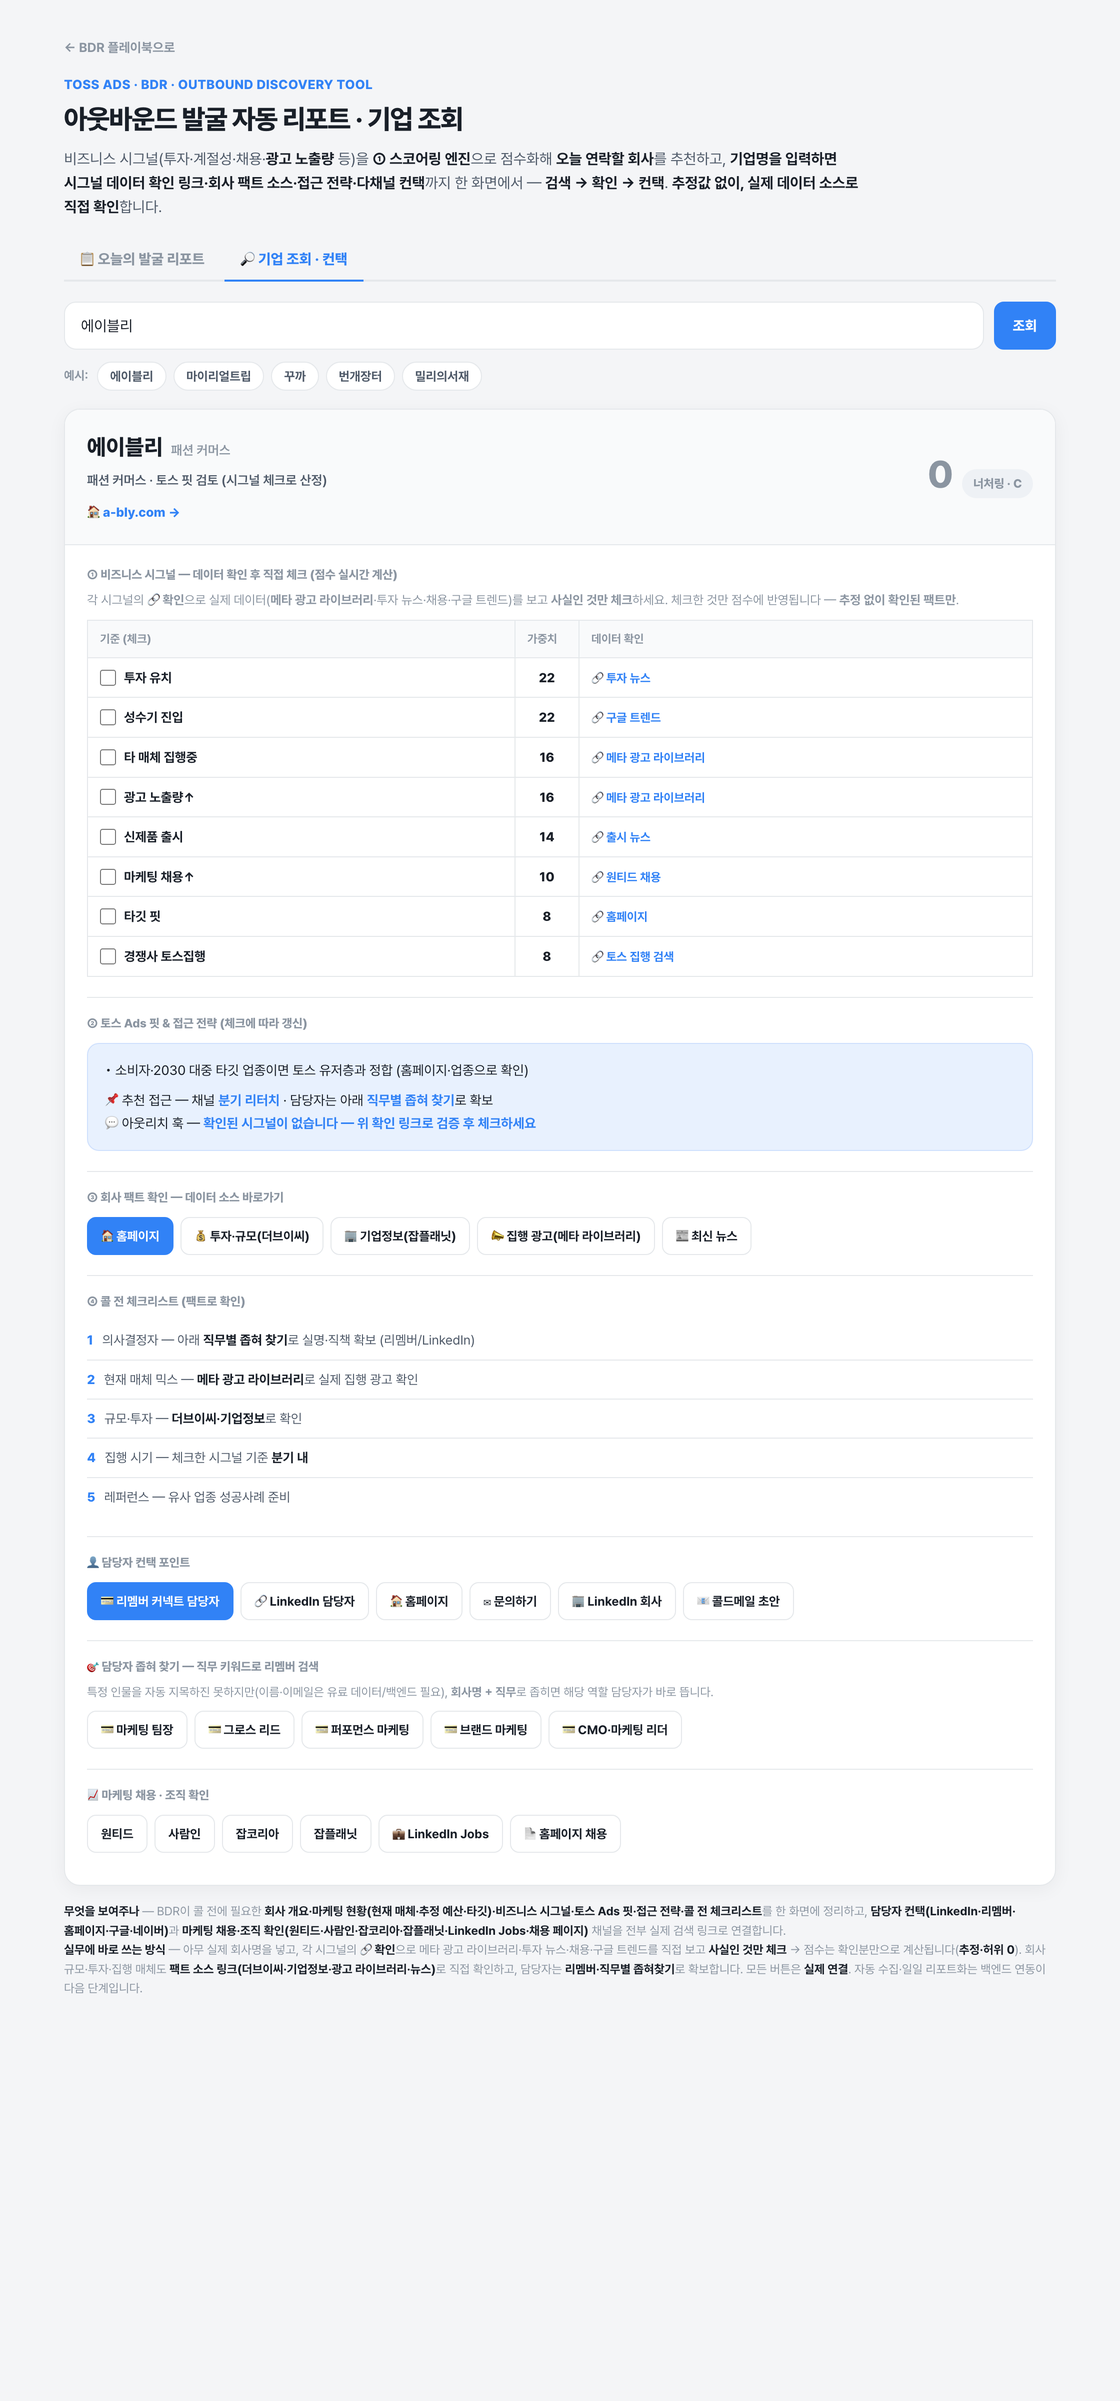
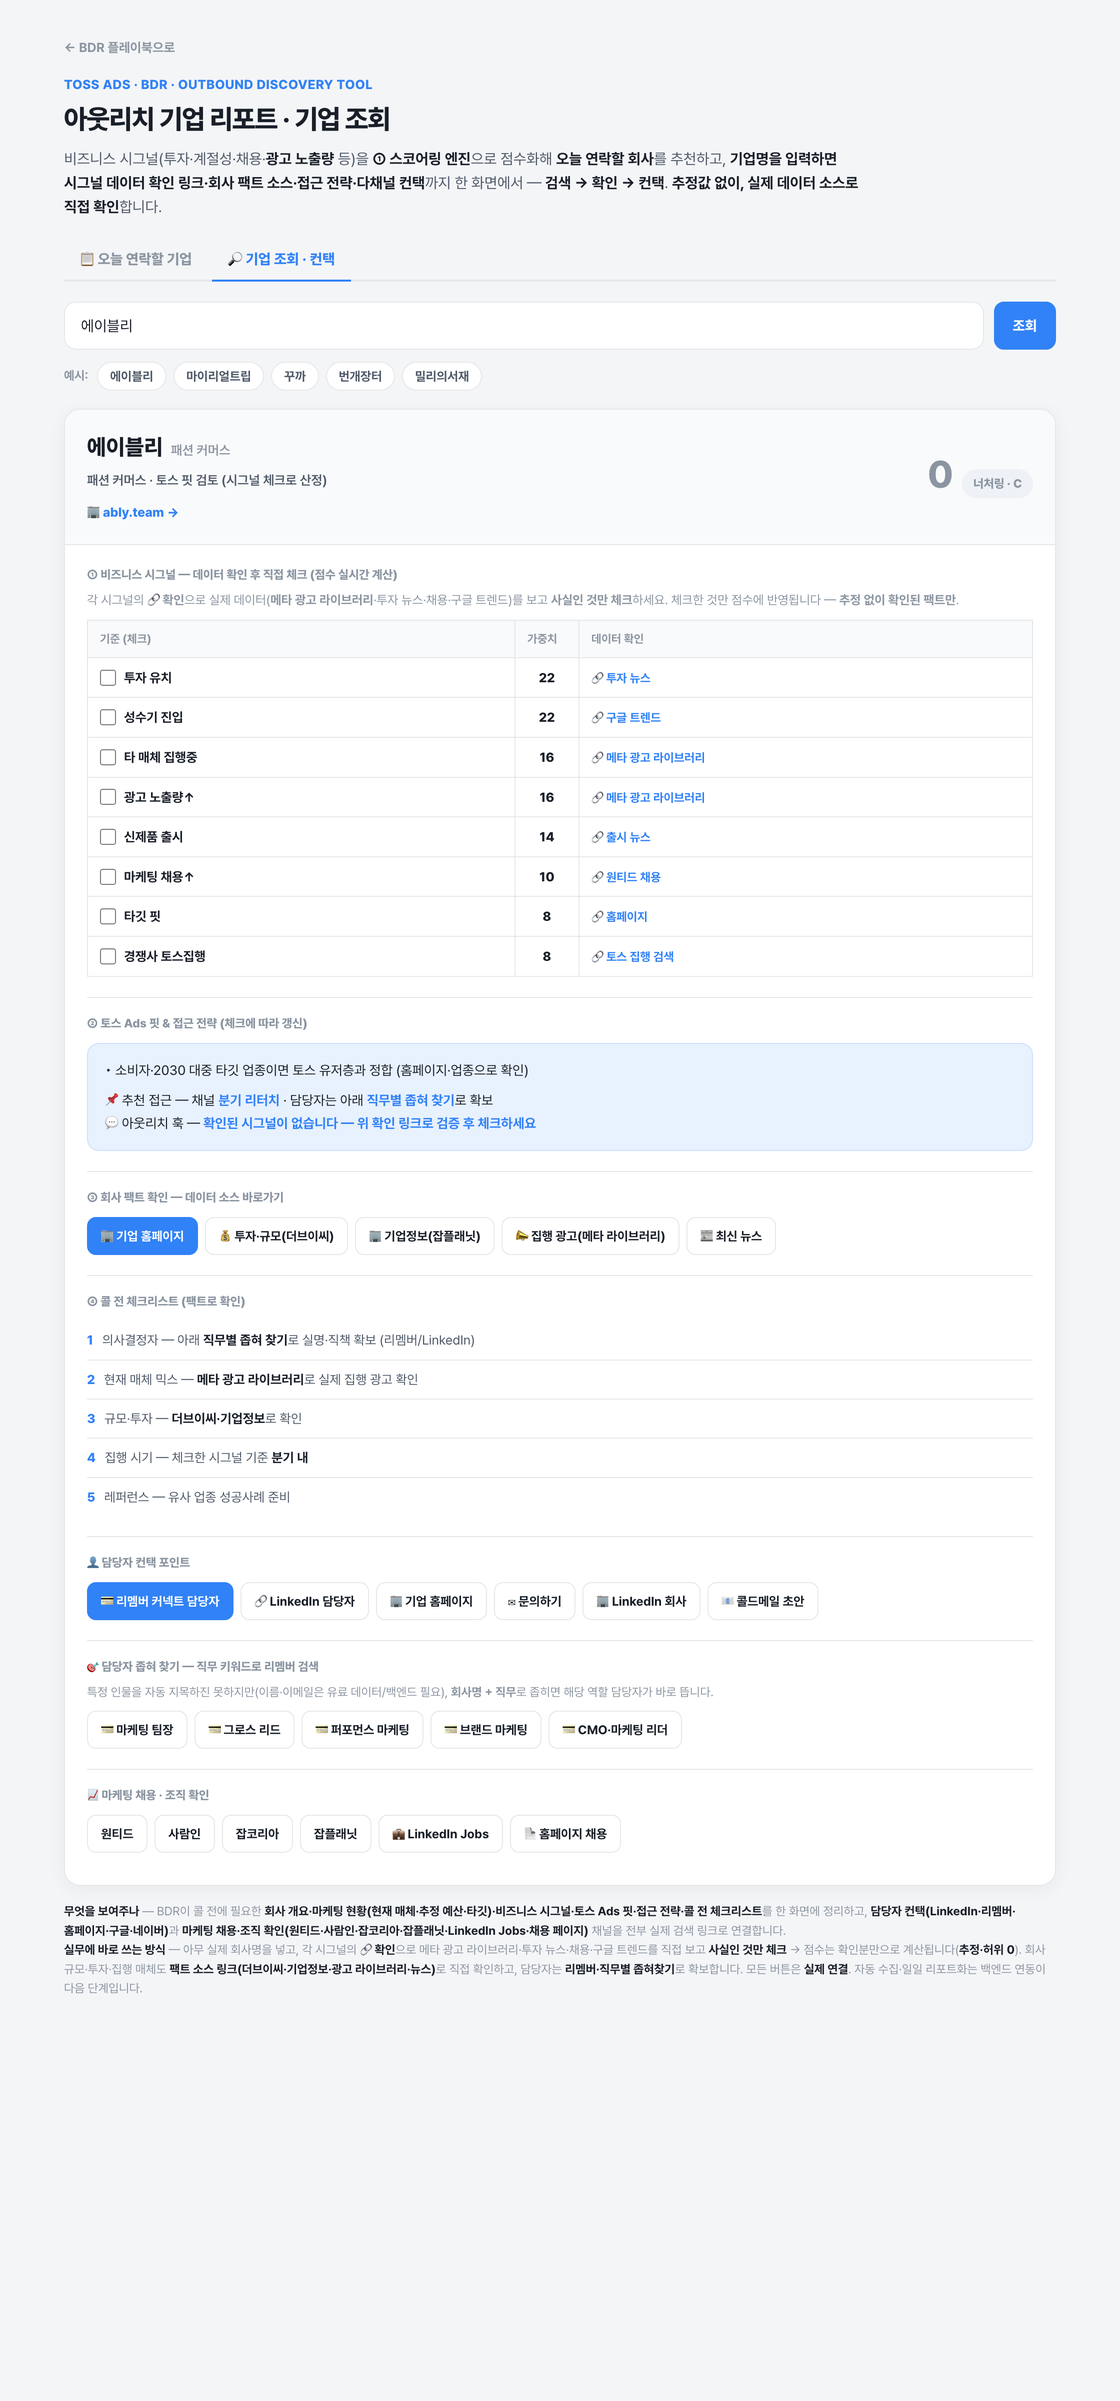
feat(tossbdr): 홈페이지→기업(코퍼레이트) 사이트 연결 + 용어 직관화(아웃리치 기업 리포트)
- 홈페이지 버튼이 서비스 앱이 아닌 기업 홈페이지로: 에이블리→ably.team, 지그재그→kakaostyle.com,
  리디→ridicorp.com, 번개장터→bgzt.co.kr, 밀리→corp.millie.co.kr, 클래스101→101.inc, 스파르타→spartaclub.kr (curl 검증)
- '🏢 기업 홈페이지'로 라벨링
- 용어 직관화: '발굴 자동 리포트'→'아웃리치 기업 리포트', '오늘의 발굴 리포트'→'오늘 연락할 기업'
  (index 카드·bdr ④·nav·discovery 전반)

diff --git a/tossbdr/discovery.html b/tossbdr/discovery.html
@@ -3,7 +3,7 @@
 <head>
 <meta charset="UTF-8" />
 <meta name="viewport" content="width=device-width, initial-scale=1.0" />
-<title>아웃바운드 발굴 자동 리포트 · 기업 조회 — 윤지욱</title>
+<title>아웃리치 기업 리포트 · 기업 조회 — 윤지욱</title>
 <meta name="description" content="비즈니스 시그널을 스코어링해 '오늘 연락할 회사'를 추천하고, 기업명으로 회사 개요·마케팅 현황·접근 전략·다채널 컨택까지 한 화면에서 파악하는 실제 동작 툴. 토스 Ads BDR 지원 · 윤지욱." />
 <style>
   @import url('https://cdn.jsdelivr.net/gh/orioncactus/pretendard@latest/dist/web/static/pretendard.css');
@@ -119,11 +119,11 @@
 <div class="wrap">
   <a class="back" href="bdr.html">← BDR 플레이북으로</a>
   <div class="eyebrow">TOSS ADS · BDR · OUTBOUND DISCOVERY TOOL</div>
-  <h1>아웃바운드 발굴 자동 리포트 · 기업 조회</h1>
+  <h1>아웃리치 기업 리포트 · 기업 조회</h1>
   <p class="lead">비즈니스 시그널(투자·계절성·채용·<b>광고 노출량</b> 등)을 <b>① 스코어링 엔진</b>으로 점수화해 <b>오늘 연락할 회사</b>를 추천하고, <b>기업명을 입력하면 시그널 데이터 확인 링크·회사 팩트 소스·접근 전략·다채널 컨택</b>까지 한 화면에서 — <b>검색 → 확인 → 컨택</b>. <b>추정값 없이, 실제 데이터 소스로 직접 확인</b>합니다.</p>
 
   <div class="tabs">
-    <button class="tab active" data-tab="report">📋 오늘의 발굴 리포트</button>
+    <button class="tab active" data-tab="report">📋 오늘 연락할 기업</button>
     <button class="tab" data-tab="lookup">🔎 기업 조회 · 컨택</button>
   </div>
 
@@ -139,7 +139,7 @@
       <div class="stat" id="stat"></div>
     </div>
     <div class="report">
-      <div class="rhd"><div class="rt">📋 오늘의 발굴 리포트 <span class="tag">기준 부합 후보 · 시그널 가설</span></div><div class="rd" id="genTime">—</div></div>
+      <div class="rhd"><div class="rt">📋 오늘 연락할 기업 <span class="tag">기준 부합 후보 · 시그널 가설</span></div><div class="rd" id="genTime">—</div></div>
       <div class="rhead"><div>#</div><div>회사 · 업종</div><div>감지 시그널 · 출처</div><div>점수</div><div>등급 · 채널</div></div>
       <div id="rows"></div>
     </div>
@@ -179,17 +179,17 @@
   // 실제 기업 + 실제 홈페이지 (컨택·문의 링크가 진짜로 연결되도록)
   // 토스 Ads 타깃 핏(소비자·2030·광고 집행) 성장기 발굴 후보 — 실제 기업·실제 홈페이지
   var COMPANY = {
-    '에이블리':        {i:'패션 커머스',   hp:'https://a-bly.com'},
-    '지그재그':        {i:'패션 커머스',   hp:'https://zigzag.kr'},
+    '에이블리':        {i:'패션 커머스',   hp:'https://ably.team'},
+    '지그재그':        {i:'패션 커머스',   hp:'https://kakaostyle.com'},
     '꾸까':            {i:'플라워 구독',   hp:'https://kukka.kr'},
     '마이리얼트립':    {i:'여행',          hp:'https://www.myrealtrip.com'},
     '트래블월렛':      {i:'여행·핀테크',   hp:'https://www.travel-wallet.com'},
-    '밀리의서재':      {i:'독서 구독',     hp:'https://www.millie.co.kr'},
-    '리디':            {i:'웹툰·콘텐츠',   hp:'https://ridibooks.com'},
-    '번개장터':        {i:'중고 커머스',   hp:'https://www.bunjang.co.kr'},
-    '스파르타코딩클럽':{i:'성인 교육',     hp:'https://spartacodingclub.kr'},
+    '밀리의서재':      {i:'독서 구독',     hp:'https://corp.millie.co.kr'},
+    '리디':            {i:'웹툰·콘텐츠',   hp:'https://ridicorp.com'},
+    '번개장터':        {i:'중고 커머스',   hp:'https://bgzt.co.kr'},
+    '스파르타코딩클럽':{i:'성인 교육',     hp:'https://spartaclub.kr'},
     '프레시코드':      {i:'샐러드 구독',   hp:'https://www.freshcode.me'},
-    '클래스101':       {i:'교육',          hp:'https://class101.net'},
+    '클래스101':       {i:'교육',          hp:'https://101.inc'},
     '야나두':          {i:'교육',          hp:'https://www.yanadoo.co.kr'}
   };
   var BASE = Object.keys(COMPANY).map(function(n){ return {n:n, i:COMPANY[n].i}; });
@@ -290,7 +290,7 @@
           '<span class="cbtns">'+
             '<a class="cbtn key" href="'+LINK.remember(n)+'" target="_blank" rel="noopener">💳 리멤버 담당자</a>'+
             '<a class="cbtn" href="'+LINK.linkedin(n)+'" target="_blank" rel="noopener">🔗 LinkedIn</a>'+
-            '<a class="cbtn" href="'+LINK.home(n)+'" target="_blank" rel="noopener">🏠 홈페이지</a>'+
+            '<a class="cbtn" href="'+LINK.home(n)+'" target="_blank" rel="noopener">🏢 기업 홈페이지</a>'+
             '<a class="cbtn" href="'+LINK.inquiry(n)+'" target="_blank" rel="noopener">✉ 문의</a>'+
             '<a class="cbtn more" href="?company='+enc(n)+'#lookup">📇 전체 채널 →</a>'+
           '</span>'+
@@ -320,7 +320,7 @@
     });
     var blob = new Blob([''+lines.join('\r\n')], {type:'text/csv;charset=utf-8;'});
     var a = document.createElement('a'); a.href = URL.createObjectURL(blob);
-    a.download = '발굴리포트_' + dateStr(offset) + '.csv';
+    a.download = '아웃리치기업_' + dateStr(offset) + '.csv';
     document.body.appendChild(a); a.click(); a.remove();
     setTimeout(function(){ URL.revokeObjectURL(a.href); }, 1000);
   }
@@ -407,7 +407,7 @@
         '<div class="bh">'+
           '<div class="bhl"><div class="bname">'+name+'<small>'+ind+'</small></div>'+
             '<div class="bsum">'+ind+' · 토스 핏 <span id="bFit">검토</span> (시그널 체크로 산정)</div>'+
-            '<div style="margin-top:8px;"><a href="'+LINK.home(name)+'" target="_blank" rel="noopener" style="font-size:13px;font-weight:800;color:var(--blue);text-decoration:none;">🏠 '+(LINK.hasHome(name)?COMPANY[name].hp.replace(/^https?:\/\//,''):'공식 홈페이지 검색')+' →</a></div></div>'+
+            '<div style="margin-top:8px;"><a href="'+LINK.home(name)+'" target="_blank" rel="noopener" style="font-size:13px;font-weight:800;color:var(--blue);text-decoration:none;">🏢 '+(LINK.hasHome(name)?COMPANY[name].hp.replace(/^https?:\/\//,''):'공식 홈페이지 검색')+' →</a></div></div>'+
           '<div class="bscore"><span class="n" id="bScore" style="color:'+g0.col+'">0</span><span class="gr '+g0.c+'" id="bGrade">'+g0.g+'</span></div>'+
         '</div>'+
         '<div class="bbody">'+
@@ -418,7 +418,7 @@
           '<div class="brec" id="bRec"></div>'+
           '<div class="bsec">③ 회사 팩트 확인 — 데이터 소스 바로가기</div>'+
           '<div class="chgroup"><div class="chbtns">'+
-            ch(LINK.home(name),'🏠 홈페이지',true)+ch('https://www.google.com/search?q='+enc(name+' 더브이씨 투자 규모'),'💰 투자·규모(더브이씨)')+ch(LINK.jobplanet(name),'🏢 기업정보(잡플래닛)')+
+            ch(LINK.home(name),'🏢 기업 홈페이지',true)+ch('https://www.google.com/search?q='+enc(name+' 더브이씨 투자 규모'),'💰 투자·규모(더브이씨)')+ch(LINK.jobplanet(name),'🏢 기업정보(잡플래닛)')+
             ch(VERIFY.running(name),'📣 집행 광고(메타 라이브러리)')+ch('https://www.google.com/search?tbm=nws&q='+enc(name),'📰 최신 뉴스')+
           '</div></div>'+
           '<div class="bsec">④ 콜 전 체크리스트 (팩트로 확인)</div>'+
@@ -431,7 +431,7 @@
           '</ul>'+
           '<div class="bsec">👤 담당자 컨택 포인트</div>'+
           '<div class="chgroup"><div class="chbtns">'+
-            ch(LINK.remember(name),'💳 리멤버 커넥트 담당자',true)+ch(LINK.linkedin(name),'🔗 LinkedIn 담당자')+ch(LINK.home(name),(LINK.hasHome(name)?'🏠 홈페이지':'🏠 홈페이지 검색'))+
+            ch(LINK.remember(name),'💳 리멤버 커넥트 담당자',true)+ch(LINK.linkedin(name),'🔗 LinkedIn 담당자')+ch(LINK.home(name),(LINK.hasHome(name)?'🏢 기업 홈페이지':'🏢 홈페이지 검색'))+
             ch(LINK.inquiry(name),'✉ 문의하기')+ch(LINK.liCompany(name),'🏢 LinkedIn 회사')+ch(LINK.mail(name,'토스 Ads 제안'),'📧 콜드메일 초안')+
           '</div></div>'+
           '<div class="bsec">🎯 담당자 좁혀 찾기 — 직무 키워드로 리멤버 검색</div>'+

diff --git a/tossbdr/bdr.html b/tossbdr/bdr.html
@@ -3,8 +3,8 @@
 <head>
 <meta charset="UTF-8" />
 <meta name="viewport" content="width=device-width, initial-scale=1.0" />
-<title>윤지욱 · 토스 Ads BDR 플레이북 — 타깃 발굴 · 멀티채널 아웃리치 · 자동 발굴 리포트</title>
-<meta name="description" content="토스 Ads BDR 직무에 맞춘 실전 자료 — 비즈니스 시그널(투자·계절성·채용·광고 노출량)로 타깃 광고주를 발굴·우선순위화하는 스코어링, 콜·이메일·LinkedIn 멀티채널 아웃리치 플레이북, 매일 '오늘 연락할 회사'를 추천하는 아웃바운드 발굴 자동 리포트, 업종 레퍼런스 즉시 조회 대시보드." />
+<title>윤지욱 · 토스 Ads BDR 플레이북 — 타깃 발굴 · 멀티채널 아웃리치 · 아웃리치 기업 리포트</title>
+<meta name="description" content="토스 Ads BDR 직무에 맞춘 실전 자료 — 비즈니스 시그널(투자·계절성·채용·광고 노출량)로 타깃 광고주를 발굴·우선순위화하는 스코어링, 콜·이메일·LinkedIn 멀티채널 아웃리치 플레이북, 매일 '오늘 연락할 회사'를 추천하는 아웃리치 기업 리포트, 업종 레퍼런스 즉시 조회 대시보드." />
 <link rel="stylesheet" href="assets/style.css" />
 <style>
   @import url('https://cdn.jsdelivr.net/gh/orioncactus/pretendard@latest/dist/web/static/pretendard.css');
@@ -286,7 +286,7 @@
   .cchip.bfill{background:var(--blue);border-color:var(--blue);color:#fff;} .cchip.bfill b{color:#fff;}
   .carr{text-align:center;color:var(--muted);font-size:11.5px;line-height:1;font-weight:800;}
   .carr.b{color:var(--blue);}
-  /* 아웃바운드 발굴 자동 리포트 */
+  /* 아웃리치 기업 리포트 */
   .report{border:1px solid var(--line);border-radius:16px;overflow:hidden;background:#fff;box-shadow:0 4px 18px rgba(0,0,0,.04);}
   .report .rhd{display:flex;justify-content:space-between;align-items:center;gap:8px;padding:14px 18px;background:var(--bg-soft);border-bottom:1px solid var(--line);flex-wrap:wrap;}
   .report .rhd .rt{font-size:14.5px;font-weight:800;color:var(--ink);}
@@ -323,7 +323,7 @@
       <a href="resume.html">이력서</a>
       <a href="cases.html">상세 케이스</a>
       <a href="bdr.html" class="active">BDR</a>
-      <a href="discovery.html">발굴툴</a>
+      <a href="discovery.html">아웃리치</a>
       <a class="cta" href="#demo">▶ 대시보드 데모</a>
     </div>
   </div>
@@ -644,11 +644,11 @@
   </div>
 </section>
 
-<!-- ───────── ④ 아웃바운드 발굴 자동 리포트 ───────── -->
+<!-- ───────── ④ 아웃리치 기업 리포트 ───────── -->
 <section class="blk section-soft" id="report" style="scroll-margin-top:72px;">
   <div class="wrap">
     <div class="jd-tag">JD · 아웃바운드 발굴 · 비즈니스 시그널 추적 · 데이터 기반 전략</div>
-    <h2 class="sec">④ 아웃바운드 발굴 자동 리포트 — "오늘 연락할 회사"</h2>
+    <h2 class="sec">④ 아웃리치 기업 리포트 — "오늘 연락할 회사"</h2>
     <p class="sec-sub">아웃바운드는 '누구에게'가 먼저입니다. <b>매일 뉴스·브랜드 아티클·LinkedIn·광고 노출량 변화</b>를 수집해 시그널을 감지하고, ① 스코어링으로 우선순위를 매겨 <b>오늘 연락할 회사를 자동 추천</b>합니다. 매일 아침 큐가 갱신됩니다.</p>
 
     <div class="pipe" style="margin-bottom:18px;">
@@ -661,16 +661,16 @@
       <div class="pdest">시그널 감지 → 스코어 → 큐<small>매일 자동 리포트</small></div>
     </div>
 
-    <div class="note-sm" style="margin:0 0 8px;font-weight:700;color:var(--ink);">① 오늘의 발굴 리포트 — 날짜 기준 고정 · 정렬 · 엑셀 다운로드 · 행별 컨택 버튼</div>
+    <div class="note-sm" style="margin:0 0 8px;font-weight:700;color:var(--ink);">① 오늘 연락할 기업 — 날짜 기준 고정 · 정렬 · 엑셀 다운로드 · 행별 컨택 버튼</div>
     <a href="discovery.html" title="실제 툴 열기" style="display:block;border:1px solid var(--line);border-radius:16px;overflow:hidden;box-shadow:0 6px 22px rgba(0,0,0,.08);">
-      <img src="assets/discovery-report.png" alt="아웃바운드 발굴 자동 리포트 — 실제 구동 화면" loading="lazy" style="display:block;width:100%;height:auto;" />
+      <img src="assets/discovery-report.png" alt="아웃리치 기업 리포트 — 실제 구동 화면" loading="lazy" style="display:block;width:100%;height:auto;" />
     </a>
     <div class="note-sm" style="margin:18px 0 8px;font-weight:700;color:var(--ink);">② 기업 조회 · 컨택 — 실제 회사명 입력 → 시그널마다 <b>데이터 확인 링크(메타 광고 라이브러리·투자 뉴스·채용)</b>로 검증·체크 → <b>실시간 점수</b> + 회사 개요·접근 전략 + 다채널 컨택(LinkedIn·리멤버·홈페이지·문의·사람인·잡코리아 등). 허위 없이 당장 실무 사용 가능</div>
     <a href="discovery.html#lookup" title="기업 조회 탭 열기" style="display:block;border:1px solid var(--line);border-radius:16px;overflow:hidden;box-shadow:0 6px 22px rgba(0,0,0,.08);">
       <img src="assets/discovery-lookup.png" alt="기업 조회 · 컨택 — 실제 구동 화면" loading="lazy" style="display:block;width:100%;height:auto;" />
     </a>
     <div style="display:flex;gap:10px;align-items:center;flex-wrap:wrap;margin-top:16px;">
-      <a class="demobtn" href="discovery.html" style="margin-top:0;">▶ 발굴 리포트 열기</a>
+      <a class="demobtn" href="discovery.html" style="margin-top:0;">▶ 아웃리치 기업 리포트 열기</a>
       <a class="demobtn" href="discovery.html#lookup" style="margin-top:0;background:var(--blue);">🔎 기업 조회 열기</a>
       <span class="note-sm" style="margin:0;">위는 <b>직접 만든 실제 툴의 구동 화면</b>입니다 — <b>검색 → 파악 → 컨택</b>을 한 화면에서. 날짜별로 리포트가 고정되고, 기업명으로 실시간 조회됩니다.</span>
     </div>
@@ -692,7 +692,7 @@
     <div class="closing">
       <div class="ctitle">리드를 많이 넘기는 게 아니라,<br /><span class="hl">AM이 바로 제안할 수 있는 리드만 깨끗하게.</span></div>
       <p class="cdesc">비즈니스 시그널로 <b>발굴·우선순위</b>를 정하고 → 콜·이메일·LinkedIn으로 <b>접근·검증</b>하고 → 업종 <b>레퍼런스로 첫 컨택에서 가치를 제공</b>해 AM 미팅까지 매끄럽게 잇습니다. BDR의 산출물은 '리드 수'가 아니라 <b>'검증의 질'</b>입니다.</p>
-      <div class="crecap"><span>① 타깃 발굴 · 시그널 스코어링</span><span>② 업종 레퍼런스 대시보드</span><span>③ 멀티채널 아웃리치 시퀀스</span><span>④ 아웃바운드 발굴 자동 리포트</span></div>
+      <div class="crecap"><span>① 타깃 발굴 · 시그널 스코어링</span><span>② 업종 레퍼런스 대시보드</span><span>③ 멀티채널 아웃리치 시퀀스</span><span>④ 아웃리치 기업 리포트</span></div>
       <a class="btn btn-primary" href="mailto:jiuk2038@gmail.com" style="margin-top:20px;">윤지욱 · jiuk2038@gmail.com</a>
     </div>
   </div>

diff --git a/tossbdr/index.html b/tossbdr/index.html
@@ -89,12 +89,12 @@
       <a class="card" href="bdr.html">
         <div class="ico">🎯</div>
         <h3>토스 Ads BDR 플레이북</h3>
-        <p>타깃 광고주 발굴·우선순위 · 콜·이메일·LinkedIn 멀티채널 아웃리치 스크립트 · 아웃바운드 발굴 자동 리포트 · 업종 레퍼런스 대시보드. 이 직무를 위해 직접 만든 자료.</p>
+        <p>타깃 광고주 발굴·우선순위 · 콜·이메일·LinkedIn 멀티채널 아웃리치 스크립트 · 아웃리치 기업 리포트 · 업종 레퍼런스 대시보드. 이 직무를 위해 직접 만든 자료.</p>
         <span class="go">자세히 보기 →</span>
       </a>
       <a class="card" href="discovery.html" style="border-color:var(--blue);">
         <div class="ico">🛰</div>
-        <h3>발굴 자동 리포트 (실제 툴)</h3>
+        <h3>아웃리치 기업 리포트 (실제 툴)</h3>
         <p>비즈니스 시그널(투자·계절성·광고 노출량 등)로 '오늘 연락할 회사'를 점수·우선순위로 추천하는 <b>직접 만든 동작 툴</b>. 버튼으로 재생성·정렬.</p>
         <span class="go">툴 사용하기 →</span>
       </a>
